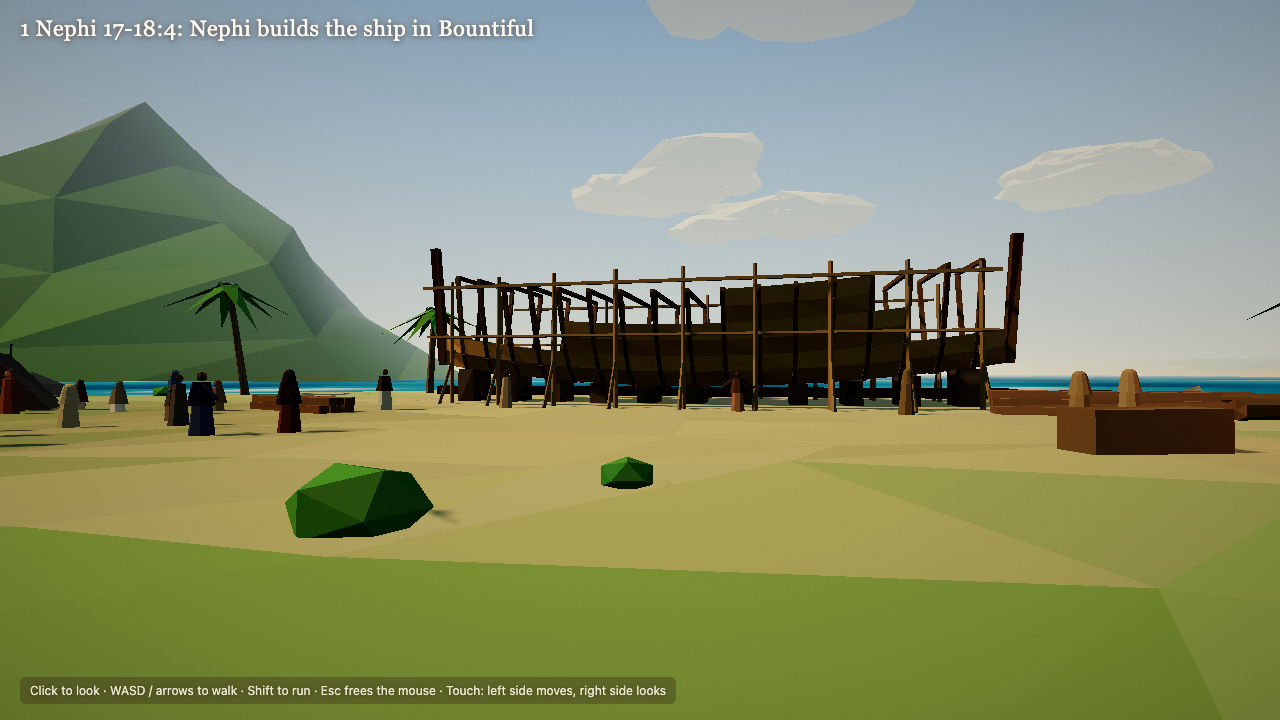
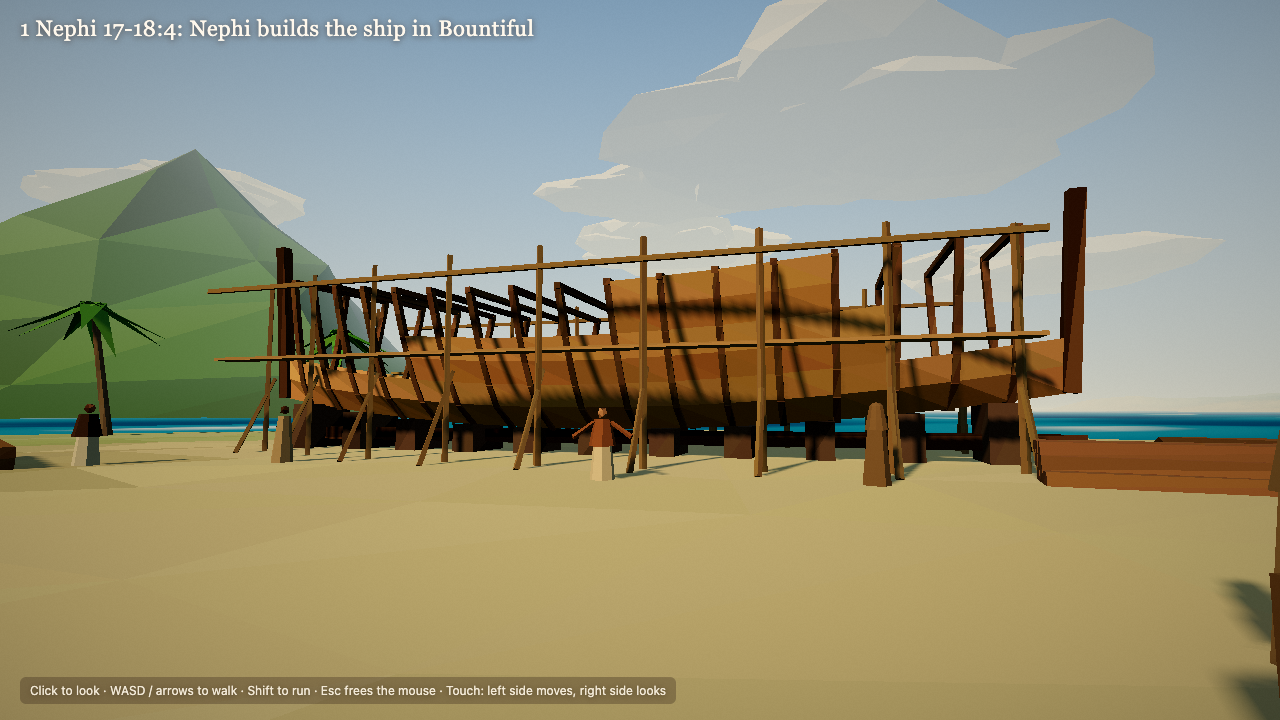
feat: polish lowpoly scenes bom-07 to bom-12

diff --git a/styles/lowpoly/scenes/lib/bom-07-sea.js b/styles/lowpoly/scenes/lib/bom-07-sea.js
@@ -1,7 +1,7 @@
 import * as THREE from 'three';
 
 // Faceted ocean whose waves are displaced on the GPU. Flat shading derives normals from the displaced surface.
-export function ocean(ctx, { level = 0, size = 1400, segments = 200, center = [0, 0], color = '#2f7d8f', deep = '#1b4b62', crest = '#d8eef0', amp = 0.3, freq = 0.06, speed = 0.8, chop = 0.5, opacity = 1 } = {}) {
+export function ocean(ctx, { level = 0, size = 1400, segments = 200, center = [0, 0], color = '#2f7d8f', deep = '#1b4b62', crest = '#d8eef0', amp = 0.3, freq = 0.06, speed = 0.8, chop = 0.5, opacity = 1, foam = 0, glow = 0 } = {}) {
   const { THREE: T, scene } = ctx;
   const geo = new T.PlaneGeometry(size, size, segments, segments).rotateX(-Math.PI / 2);
   const mat = new T.MeshLambertMaterial({ color: '#ffffff', flatShading: true, transparent: opacity < 1, opacity });
@@ -13,11 +13,13 @@ export function ocean(ctx, { level = 0, size = 1400, segments = 200, center = [0
     uShallow: { value: new T.Color(color) },
     uDeep: { value: new T.Color(deep) },
     uCrest: { value: new T.Color(crest) },
+    uFoam: { value: foam },
+    uGlow: { value: glow },
   };
   mat.onBeforeCompile = (shader) => {
     Object.assign(shader.uniforms, uniforms);
     shader.vertexShader = shader.vertexShader
-      .replace('#include <common>', '#include <common>\nuniform float uTime, uAmp, uFreq, uChop;\nvarying float vWave;')
+      .replace('#include <common>', '#include <common>\nuniform float uTime, uAmp, uFreq, uChop;\nvarying float vWave;\nvarying vec2 vWp;')
       .replace(
         '#include <begin_vertex>',
         `#include <begin_vertex>
@@ -28,17 +30,22 @@ export function ocean(ctx, { level = 0, size = 1400, segments = 200, center = [0
           + sin((wp.x + wp.z) * uFreq * 2.7 + t * 1.7) * 0.18 * uChop
           + sin((wp.x - wp.z) * uFreq * 4.1 - t * 2.3) * 0.1 * uChop;
         transformed.y += h * uAmp;
-        vWave = h;`,
+        vWave = h;
+        vWp = wp.xz;`,
       );
     shader.fragmentShader = shader.fragmentShader
-      .replace('#include <common>', '#include <common>\nuniform vec3 uShallow, uDeep, uCrest;\nvarying float vWave;')
+      .replace('#include <common>', '#include <common>\nuniform vec3 uShallow, uDeep, uCrest;\nuniform float uFoam, uGlow;\nvarying float vWave;\nvarying vec2 vWp;')
       .replace(
         '#include <color_fragment>',
         `#include <color_fragment>
         vec3 sea = mix(uDeep, uShallow, smoothstep(-0.8, 0.6, vWave));
         sea = mix(sea, uCrest, smoothstep(0.62, 0.95, vWave) * 0.75);
+        float speck = fract(sin(dot(floor(vWp * 0.7), vec2(12.9898, 78.233))) * 43758.5453);
+        float foamAmt = smoothstep(0.3, 0.75, vWave + speck * 0.4 - 0.15) * uFoam;
+        sea = mix(sea, vec3(0.92, 0.95, 0.97), foamAmt);
         diffuseColor.rgb = sea;`,
-      );
+      )
+      .replace('#include <emissivemap_fragment>', '#include <emissivemap_fragment>\n        totalEmissiveRadiance += (uCrest * 0.25 + uShallow * 0.35) * (foamAmt + smoothstep(0.0, 0.9, vWave) * 0.4) * uGlow;');
   };
   const mesh = new T.Mesh(geo, mat);
   mesh.position.set(center[0], level, center[1]);
@@ -125,7 +132,7 @@ export function rain(ctx, { count = 5000, box = 60, height = 30, speed = 26, sla
 }
 
 // Random lightning: a jagged bolt far off, a flash of the sky lights and fog.
-export function lightning(ctx, { every = [3, 8], distance = [160, 320], color = '#dfe8ff', fogFlash = '#7d86a0' } = {}) {
+export function lightning(ctx, { every = [3, 8], distance = [160, 320], color = '#dfe8ff', fogFlash = '#7d86a0', strike = 0 } = {}) {
   const { THREE: T, scene, rand } = ctx;
   const hemi = scene.children.find((o) => o.isHemisphereLight);
   const sun = scene.children.find((o) => o.isDirectionalLight);
@@ -134,6 +141,8 @@ export function lightning(ctx, { every = [3, 8], distance = [160, 320], color = 
   const mat = new T.MeshBasicMaterial({ color, toneMapped: false, fog: false, transparent: true, opacity: 0 });
   const bolt = new T.Group();
   scene.add(bolt);
+  const strikeLight = new T.DirectionalLight(color, 0);
+  scene.add(strikeLight, strikeLight.target);
   let next = rand.range(1, 3), flashStart = -10;
   const makeBolt = (x, z) => {
     bolt.clear();
@@ -157,6 +166,8 @@ export function lightning(ctx, { every = [3, 8], distance = [160, 320], color = 
     if (t > next) {
       const a = rand() * Math.PI * 2, d = rand.range(distance[0], distance[1]);
       makeBolt(camera.position.x + Math.cos(a) * d, camera.position.z + Math.sin(a) * d);
+      strikeLight.position.set(camera.position.x + Math.cos(a) * 60, 80, camera.position.z + Math.sin(a) * 60);
+      strikeLight.target.position.copy(camera.position);
       flashStart = t;
       next = t + rand.range(every[0], every[1]);
     }
@@ -164,6 +175,7 @@ export function lightning(ctx, { every = [3, 8], distance = [160, 320], color = 
     const f = k < 0.5 ? Math.max(0, 1 - k / 0.5) * (0.6 + 0.4 * Math.sin(k * 60)) : 0;
     mat.opacity = f > 0.05 ? Math.min(1, f * 1.5) : 0;
     bolt.visible = f > 0.05;
+    strikeLight.intensity = f * strike;
     if (hemi) hemi.intensity = baseHemi * (1 + f * 3);
     if (sun) sun.intensity = baseSun * (1 + f * 2);
     scene.fog.color.copy(baseFog).lerp(flashFog, f * 0.8);

diff --git a/styles/lowpoly/scenes/bom-08.js b/styles/lowpoly/scenes/bom-08.js
@@ -14,16 +14,16 @@ export default {
   fov: 64,
   exposure: 1.0,
 
-  sun: { direction: [0.3, 0.8, -0.4], color: '#a8b8d0', intensity: 1.8 },
-  light: { sky: '#8a9ab6', ground: '#3a4450', hemi: 2.0 },
-  sky: { top: '#141a24', horizon: '#3e4a5a', ground: '#232c38', sunColor: '#4a5668', glow: 0.2 },
-  fog: { color: '#3a4656', near: 25, far: 260 },
-  clouds: { count: 160, shadow: '#1c2028', lit: '#4e5868', rim: '#6a7484', distance: [180, 620], altitude: [80, 150], hole: 0 },
+  sun: { direction: [-0.35, 0.7, 0.6], color: '#b8c8e0', intensity: 2.2 },
+  light: { sky: '#9aaac6', ground: '#4a5460', hemi: 2.1 },
+  sky: { top: '#182030', horizon: '#56647a', ground: '#2a3440', sunColor: '#6a7890', glow: 0.3 },
+  fog: { color: '#465468', near: 40, far: 300 },
+  clouds: { count: 160, shadow: '#222834', lit: '#5e6a7c', rim: '#8a96aa', distance: [180, 620], altitude: [80, 150], hole: 0 },
   bloom: { strength: 0.6, radius: 0.5, threshold: 0.8 },
-  grade: { saturation: 0.8, contrast: 1.1, vignette: 0.55, shadowTint: '#1a2440', highlightTint: '#d8e4ff' },
+  grade: { saturation: 0.85, contrast: 1.12, vignette: 0.45, shadowTint: '#1a2440', highlightTint: '#d8e4ff' },
   shadow: { center: [0, 0], radius: 25 },
 
-  player: { start: [0.9, 12.5], yaw: 0.03, pitch: -0.02, eye: 1.65, speed: 3.2 },
+  player: { start: [0.2, 8.8], yaw: -0.1, pitch: -0.03, eye: 1.65, speed: 3.2 },
 
   terrain: {
     size: 1100,
@@ -37,9 +37,9 @@ export default {
 
   custom(ctx) {
     const { THREE, scene, rand } = ctx;
-    ocean(ctx, { level: 0, size: 900, segments: 220, color: '#2c4a5a', deep: '#0f2230', crest: '#c8d4dc', amp: 1.3, freq: 0.055, chop: 1.2, speed: 1.3 });
+    ocean(ctx, { level: 0, size: 900, segments: 220, color: '#4a7c90', deep: '#16303e', crest: '#e8f0f4', foam: 0.85, glow: 0.55, amp: 1.3, freq: 0.055, chop: 1.2, speed: 1.3 });
     rain(ctx, { count: 6000, box: 70, height: 34, speed: 30, slant: [9, 4], color: '#c0ccd8', opacity: 0.4 });
-    lightning(ctx, { every: [2.5, 6], distance: [140, 280], fogFlash: '#8c96b0' });
+    lightning(ctx, { every: [2.5, 6], distance: [140, 280], fogFlash: '#a0aac4', strike: 3.5 });
 
     const ship = new THREE.Group();
     ship.position.y = RIDE;
@@ -71,11 +71,11 @@ export default {
     lying(-2.1, 4.5, '#d8d0c0');
     lying(2.1, 4.5, '#8a6a7a');
     const my = deck(MAST_Z);
-    const nephi = createFigure({ x: 0, y: my, z: MAST_Z + 0.42, face: [0, 20], robe: '#9a6a44', mantle: '#6a4a30', skin: '#9b6a46', arms: 'down' });
+    const nephi = createFigure({ x: 0, y: my, z: MAST_Z + 0.42, face: [0, 20], robe: '#d0b48a', mantle: '#8a5636', skin: '#a87652', arms: 'down' });
     ship.add(nephi);
-    const rope = lit('#b8a070');
+    const rope = lit('#e8d4a0');
     for (const h of [0.45, 0.85, 1.25]) {
-      const ring = new THREE.Mesh(new THREE.TorusGeometry(0.42, 0.04, 4, 10), rope);
+      const ring = new THREE.Mesh(new THREE.TorusGeometry(0.42, 0.06, 4, 10), rope);
       ring.rotation.x = Math.PI / 2;
       ring.position.set(0, my + h, MAST_Z + 0.2);
       ship.add(ring);
@@ -85,10 +85,10 @@ export default {
     const lamp = new THREE.Mesh(new THREE.OctahedronGeometry(0.16, 0), new THREE.MeshBasicMaterial({ color: '#ffc070', toneMapped: false }));
     lamp.position.set(0, my + 2.6, MAST_Z + 0.45);
     ship.add(lamp);
-    const lampLight = new THREE.PointLight('#ffb060', 14, 16, 1.4);
-    lampLight.position.set(0, my + 2.5, MAST_Z + 0.9);
+    const lampLight = new THREE.PointLight('#ffb060', 9, 16, 1.4);
+    lampLight.position.set(0.4, my + 2.3, MAST_Z + 2.0);
     ship.add(lampLight);
-    ctx.onFrame((t) => (lampLight.intensity = 14 * (0.85 + 0.15 * Math.sin(t * 9) * Math.sin(t * 5.3))));
+    ctx.onFrame((t) => (lampLight.intensity = 9 * (0.85 + 0.15 * Math.sin(t * 9) * Math.sin(t * 5.3))));
     const stand = new THREE.Mesh(new THREE.BoxGeometry(0.6, 0.7, 0.6), lit('#5a3b26'));
     stand.position.set(1.4, my + 0.35, MAST_Z + 2.2);
     ship.add(stand);
@@ -111,9 +111,9 @@ export default {
     };
     const toLocal = (x, z) => deck(z);
     const people = placeCrowd([
-      { palette, count: 5, points: [[-1.1, MAST_Z + 1.6], [-1.6, MAST_Z + 2.3], [-0.6, MAST_Z + 2.5], [0.5, MAST_Z + 2.9], [-2.2, MAST_Z + 1.2]], face: [0, MAST_Z], children: 0.6, kneel: 0.8, seed: 81 },
+      { palette, count: 5, points: [[-1.1, MAST_Z + 1.6], [-1.6, MAST_Z + 2.3], [-0.6, MAST_Z + 2.5], [1.3, MAST_Z + 2.9], [-2.2, MAST_Z + 1.2]], face: [0, MAST_Z], children: 0.6, kneel: 0.8, seed: 81 },
       { palette, count: 3, points: [[2.3, MAST_Z - 1.6], [2.9, MAST_Z - 0.4], [-2.6, MAST_Z - 2.2]], face: [0, MAST_Z], children: 0, seed: 82 },
-      { palette, count: 8, points: [[-3, 2.6], [-1.0, 2.9], [2.9, 2.4], [1.0, 3.0], [-0.9, 6.6], [2.8, 6.8], [-1, -9], [1.2, -10.5]], face: [0, 4.5], children: 0.3, kneel: 0.5, seed: 83 },
+      { palette, count: 8, points: [[-3, 2.6], [-3.1, 3.6], [2.9, 2.4], [3.1, 3.4], [-3.0, 7.4], [2.8, 6.8], [-1, -9], [1.2, -10.5]], face: [0, 4.5], children: 0.3, kneel: 0.5, seed: 83 },
       { palette, count: 4, points: [[-2.4, -6], [2.2, -5.5], [-1.5, -12], [2.5, -13]], face: [0, -20], children: 0.2, seed: 84 },
     ], toLocal, toLocal);
     const time = { value: 0 };

diff --git a/styles/lowpoly/scenes/bom-11.js b/styles/lowpoly/scenes/bom-11.js
@@ -26,7 +26,7 @@ export default {
   grade: { saturation: 1.1, contrast: 1.06, vignette: 0.32, shadowTint: '#2a3450', highlightTint: '#fff0d0' },
   shadow: { center: [0, -25], radius: 70 },
 
-  player: { start: [5, 16], yaw: 0.08, pitch: 0.1, eye: 1.65, speed: 4.5 },
+  player: { start: [3.5, 13], yaw: 0.06, pitch: 0.06, eye: 1.65, speed: 4.5 },
 
   terrain: {
     size: 1100,
@@ -35,10 +35,12 @@ export default {
     hills: 44,
     bumps: 0.25,
     flats: [{ x: 0, z: -20, r: 120, falloff: 60, height: 0 }],
-    colors: { ground: '#8a8a58', groundAlt: '#7a7e4e', grass: '#6c7c44', high: '#76784e', rock: '#7a6e5c' },
+    colors: { ground: '#b89c6e', groundAlt: '#a88c62', grass: '#7e8a4c', high: '#8a845a', rock: '#8a7a64' },
     patches: [
-      { x: TEMPLE[0], z: TEMPLE[1], r: 50, color: '#b8a682', strength: 0.7, rough: 0.4 },
-      { x: 0, z: 20, r: 30, color: '#a8966e', strength: 0.5, rough: 0.5 },
+      { x: TEMPLE[0], z: TEMPLE[1], r: 50, color: '#cdb58c', strength: 0.7, rough: 0.4 },
+      { x: 0, z: 20, r: 30, color: '#b49468', strength: 0.5, rough: 0.5 },
+      { x: -40, z: -10, r: 35, color: '#a6825a', strength: 0.45, rough: 0.6 },
+      { x: 45, z: 5, r: 30, color: '#c0a47a', strength: 0.45, rough: 0.6 },
     ],
   },
 
@@ -103,6 +105,32 @@ export default {
     provisions(ctx, { x: -12, z: 6, count: 5 });
     campfire(ctx, { x: -30, z: 18, light: 5 });
 
+    const pad = (x, z, w, d, rot, color, lift = 0.06) => {
+      const c = Math.cos(rot), sn = Math.sin(rot);
+      let lo = Infinity, hi = -Infinity;
+      for (const [u, v] of [[0, 0], [-w / 2, -d / 2], [w / 2, -d / 2], [-w / 2, d / 2], [w / 2, d / 2]]) {
+        const h = heightAt(x + u * c + v * sn, z - u * sn + v * c);
+        lo = Math.min(lo, h);
+        hi = Math.max(hi, h);
+      }
+      const bottom = lo - 0.15, top = hi + lift;
+      ctx.solid.box(w, top - bottom, d, { position: [x, (top + bottom) / 2, z], rotation: [0, rot, 0], color, jitter: 0.04 });
+    };
+    const paving = ['#e4d4b0', '#c8b088', '#d8c29a', '#bea47c', '#d0b890'];
+    for (let ix = -7; ix <= 7; ix++) {
+      for (let iz = 0; iz <= 8; iz++) {
+        const x = ix * 2.6, z = -10.8 + iz * 2.6;
+        if (Math.abs(x) < 9 && z < -11) continue;
+        pad(x, z, 2.3, 2.3, rand.range(-0.03, 0.03), rand.pick(paving), 0.08);
+      }
+    }
+    for (let z = 12.6; z <= 44; z += 2.2) for (const x of [-1.15, 1.15]) pad(x + rand.range(-0.05, 0.05), z, 2.1, 1.95, rand.range(-0.03, 0.03), rand.pick(paving), 0.08);
+    for (const s of [-1, 1]) for (let z = 11.8; z <= 44; z += 1.1) pad(s * 2.6, z, 0.5, 1.0, 0, '#9a8462', 0.14);
+    const dirt = ['#9a7650', '#a07c56', '#94704a'];
+    for (const [x, z, w, d, r] of [[0, 2, 110, 3.2, 0], [0, -66, 110, 3.2, 0], [-42, -30, 3.2, 120, 0], [42, -30, 3.2, 120, 0], [-24, 25, 3, 50, 0.5], [24, 25, 3, 50, -0.5], [-70, -20, 3, 70, 0], [70, -20, 3, 70, 0]]) {
+      pad(x, z, w, d, r, rand.pick(dirt), 0.04);
+    }
+
     for (let gx = -7; gx <= 7; gx++) {
       for (let gz = -7; gz <= 6; gz++) {
         const x = gx * 15 + rand.range(-3, 3), z = gz * 15 - 15 + rand.range(-3, 3);
@@ -110,7 +138,9 @@ export default {
         if (Math.abs(x) < 22 && z > -10) continue;
         if (Math.hypot(x, z + 20) > 125 || rand() < 0.3) continue;
         const rot = Math.round(rand() * 4) * (Math.PI / 2) + rand.range(-0.08, 0.08);
-        house(ctx, { x, z, rot, w: rand.range(5, 9), d: rand.range(4.5, 7), h: rand.range(2.8, 4), color: rand.pick(['#c8b08a', '#d0bc98', '#bca480', '#c4ae8e']) });
+        const w = rand.range(5, 9), d = rand.range(4.5, 7);
+        pad(x, z, w + 4, d + 4, rot, rand.pick(['#c8ac80', '#bfa074', '#d0b68c', '#b89870']), 0.05);
+        house(ctx, { x, z, rot, w, d, h: rand.range(2.8, 4), color: rand.pick(['#d8c09a', '#e0ccaa', '#ccb490', '#d4be9e']), roof: rand.pick(['#7a5a3a', '#8a6440', '#6a4a30']) });
       }
     }
     field(ctx, { x: -150, z: 40, w: 40, d: 26, rot: 0.2, rows: 14 });

diff --git a/styles/lowpoly/scenes/bom-07.js b/styles/lowpoly/scenes/bom-07.js
@@ -15,7 +15,7 @@ export default {
   fov: 62,
   exposure: 1.05,
 
-  sun: { direction: [-0.55, 0.62, 0.25], color: '#fff0d0', intensity: 2.8 },
+  sun: { direction: [-0.25, 0.55, 0.8], color: '#fff0d0', intensity: 2.8 },
   light: { sky: '#a8c8e8', ground: '#6a7a48', hemi: 1.15 },
   sky: { top: '#4f86c6', horizon: '#d6e6ea', ground: '#c8d8d8', sunColor: '#fff4d8', glow: 0.8 },
   fog: { color: '#d2e2e6', near: 90, far: 620 },
@@ -24,7 +24,7 @@ export default {
   grade: { saturation: 1.12, contrast: 1.05, vignette: 0.32, shadowTint: '#2a3a50', highlightTint: '#fff2d8' },
   shadow: { center: [10, -5], radius: 60 },
 
-  player: { start: [4, 10], yaw: 0.22, pitch: 0.02, eye: 1.65, speed: 4.5 },
+  player: { start: [8, -1], yaw: 0.3, pitch: 0.08, eye: 1.65, speed: 4.5 },
 
   terrain: {
     size: 1100,
@@ -39,7 +39,7 @@ export default {
     colors: { ground: '#7a9446', groundAlt: '#5a7c3a', grass: '#567c38', high: '#6c7c4c', rock: '#7c7262' },
     patches: [
       { x: 0, z: -340, r: 362, color: '#dcc896', strength: 1, rough: 0.08 },
-      { x: SHIP[0], z: SHIP[1] + 4, r: 26, color: '#bfa878', strength: 0.7, rough: 0.4 },
+      { x: SHIP[0] + 4, z: SHIP[1] + 10, r: 34, color: '#d6be8a', strength: 0.85, rough: 0.4 },
       { x: CAMP[0], z: CAMP[1], r: 18, color: '#8a7a50', strength: 0.5, rough: 0.5 },
     ],
   },
@@ -72,7 +72,7 @@ export default {
   },
 
   figures: [
-    { x: 2.5, z: -15.6, face: [2.5, -20], robe: '#9a6a44', mantle: '#5a3d2b', skin: '#9b6a46', arms: 'out' },
+    { x: 3, z: -14.2, face: [8, -1], robe: '#d0b48a', mantle: '#8a5636', skin: '#a87652', arms: 'out' },
     { x: -9, z: -4, face: [0, -18], robe: '#6e3a2a', mantle: '#3f2a20', skin: '#8a5a3c', arms: 'down', hood: true },
     { x: -10.6, z: -2.8, face: [0, -18], robe: '#4f4a5b', mantle: '#2f2a3a', skin: '#9b6a46', arms: 'out' },
   ],
@@ -89,7 +89,7 @@ export default {
     const ground = heightAt(SHIP[0], SHIP[1]);
     const lift = 0.9;
     const L = 30;
-    const { mesh, shape } = buildShip({ length: L, beam: 8, depth: 4.6, built: 0.5, rand, hullColor: '#9c6c42', plankAlt: '#b0804e' });
+    const { mesh, shape } = buildShip({ length: L, beam: 8, depth: 4.6, built: 0.5, rand, hullColor: '#b07a4a', plankAlt: '#c48e5a' });
     mesh.position.set(SHIP[0], ground + lift, SHIP[1]);
     mesh.rotation.y = SHIP_ROT;
     scene.add(mesh);
@@ -146,7 +146,7 @@ export default {
       if (y > 70) c.lerp(new THREE.Color('#8a8070'), Math.min(1, (y - 70) / 30));
     } });
 
-    const avoid = (x, z) => Math.abs(z - SHIP[1]) < 12 && Math.abs(x) < 26 || Math.hypot(x - CAMP[0], z - CAMP[1]) < 22 || Math.hypot(x - 4, z - 10) < 4;
+    const avoid = (x, z) => Math.abs(z - SHIP[1]) < 12 && Math.abs(x) < 26 || Math.hypot(x - CAMP[0], z - CAMP[1]) < 22 || Math.hypot(x - 8, z + 1) < 10;
     for (let i = 0; i < 120; i++) {
       const x = rand.range(-90, 90), z = rand.range(-30, 90);
       if (avoid(x, z) || heightAt(x, z) < SEA + 0.4) continue;

diff --git a/styles/lowpoly/scenes/bom-09.js b/styles/lowpoly/scenes/bom-09.js
@@ -23,7 +23,7 @@ export default {
   grade: { saturation: 1.15, contrast: 1.05, vignette: 0.32, shadowTint: '#283a50', highlightTint: '#fff0d0' },
   shadow: { center: [0, -5], radius: 60 },
 
-  player: { start: [2, 22], yaw: 0.05, pitch: 0.0, eye: 1.65, speed: 4.5 },
+  player: { start: [5, -2], yaw: 0.1, pitch: 0.03, eye: 1.65, speed: 4.5 },
 
   terrain: {
     size: 1100,
@@ -35,7 +35,7 @@ export default {
       { x: 0, z: -340, r: 250, falloff: 70, height: -6 },
       { x: 0, z: 0, r: 40, falloff: 40, height: 0.2 },
     ],
-    colors: { ground: '#6a8c42', groundAlt: '#557a36', grass: '#4f7432', high: '#5e7444', rock: '#766c5e' },
+    colors: { ground: '#7e9c4a', groundAlt: '#6c8c40', grass: '#58803a', high: '#5e7444', rock: '#766c5e' },
     patches: [
       { x: 0, z: -340, r: 358, color: '#d8c8a0', strength: 1, rough: 0.08 },
       { x: -18, z: -12, r: 14, color: '#8a7a50', strength: 0.5, rough: 0.5 },
@@ -66,7 +66,7 @@ export default {
   },
 
   figures: [
-    { x: 8, z: 4, face: [12, 2], robe: '#9a6a44', mantle: '#5a3d2b', skin: '#9b6a46', arms: 'out' },
+    { x: 1.5, z: -14, face: [-4, -37], robe: '#d0b48a', mantle: '#8a5636', skin: '#a87652', arms: 'out' },
   ],
 
   custom(ctx) {
@@ -91,10 +91,10 @@ export default {
 
     const { mesh: boat } = buildShip({ mast: false, length: 6, beam: 2, depth: 0.9, built: 1, rand, hullColor: '#8a5e3a', plankAlt: '#9a6c44' });
     boat.position.set(BOAT[0], heightAt(...BOAT) + 0.15, BOAT[1]);
-    boat.rotation.set(0.04, 0.3, 0.12);
+    boat.rotation.set(0.04, 1.3, 0.12);
     scene.add(boat);
-    ctx.colliders.add({ x: BOAT[0], z: BOAT[1], w: 2, d: 6, rot: 0.3, bottom: heightAt(...BOAT), top: heightAt(...BOAT) + 1.2 });
-    for (const s of [-1, 1]) ctx.solid.box(0.1, 0.1, 3.4, { position: [BOAT[0] + s * 1.6, heightAt(...BOAT) + 0.2, BOAT[1] + 1], rotation: [0, 0.3 + s * 0.4, 0], color: '#6a4a30' });
+    ctx.colliders.add({ x: BOAT[0], z: BOAT[1], w: 2, d: 6, rot: 1.3, bottom: heightAt(...BOAT), top: heightAt(...BOAT) + 1.2 });
+    for (const s of [-1, 1]) ctx.solid.box(0.1, 0.1, 3.4, { position: [BOAT[0] + s * 1.6, heightAt(...BOAT) + 0.2, BOAT[1] + 1], rotation: [0, 1.3 + s * 0.4, 0], color: '#6a4a30' });
 
     provisions(ctx, { x: -6, z: -28, count: 10, radius: 3 });
     provisions(ctx, { x: -14, z: -18, count: 6, radius: 2 });

diff --git a/styles/lowpoly/scenes/bom-10.js b/styles/lowpoly/scenes/bom-10.js
@@ -27,7 +27,7 @@ export default {
   grade: { saturation: 1.12, contrast: 1.06, vignette: 0.38, shadowTint: '#30285e', highlightTint: '#ffe0b0' },
   shadow: { center: [0, -6], radius: 45 },
 
-  player: { start: [1.5, 6], yaw: 0.06, pitch: -0.02, eye: 1.65, speed: 4.2 },
+  player: { start: [0, 1.2], yaw: 0, pitch: 0.03, eye: 1.65, speed: 4.2 },
 
   terrain: {
     size: 1100,
@@ -36,8 +36,8 @@ export default {
     hills: 40,
     bumps: 0.3,
     flats: [{ x: 0, z: -6, r: 50, falloff: 40, height: 0.2 }],
-    colors: { ground: '#7e8a48', groundAlt: '#6c7c40', grass: '#5c7a38', high: '#76784e', rock: '#7a6e5c' },
-    patches: [{ x: LEHI[0], z: LEHI[1] + 4, r: 16, color: '#9a8458', strength: 0.6, rough: 0.5 }],
+    colors: { ground: '#9a9258', groundAlt: '#88884c', grass: '#6c843e', high: '#76784e', rock: '#7a6e5c' },
+    patches: [{ x: LEHI[0], z: LEHI[1] + 4, r: 18, color: '#b49a68', strength: 0.7, rough: 0.5 }],
   },
 
   objects: [
@@ -59,7 +59,7 @@ export default {
     },
     groups: [
       { count: 26, center: LEHI, ring: [3.4, 7.5], arc: [0.2, Math.PI - 0.2], spacing: 1.0, face: LEHI, children: 0.2, kneel: 0.35, seed: 101, avoid: [{ rect: [LEHI[0], LEHI[1] + 6, 2.4, 12] }, { rect: [LEHI[0], LEHI[1], 3.6, 3.6] }] },
-      { count: 30, center: LEHI, ring: [7.5, 12], arc: [0.05, Math.PI - 0.05], spacing: 1.15, face: LEHI, children: 0.35, kneel: 0.1, seed: 102, avoid: [{ rect: [LEHI[0], LEHI[1] + 6, 2.4, 12] }, { rect: [1.5, 6, 3, 3] }] },
+      { count: 30, center: LEHI, ring: [7.5, 12], arc: [0.05, Math.PI - 0.05], spacing: 1.15, face: LEHI, children: 0.35, kneel: 0.1, seed: 102, avoid: [{ rect: [LEHI[0], LEHI[1] + 6, 2.4, 12] }, { rect: [0, 1.5, 3, 4] }] },
       { count: 6, center: [-16, -2], ring: [1, 4], spacing: 1.2, face: LEHI, children: 0.6, seed: 103 },
     ],
   },

diff --git a/styles/lowpoly/scenes/bom-12.js b/styles/lowpoly/scenes/bom-12.js
@@ -4,7 +4,7 @@ import { solomonTemple, house } from './lib/bom-07-temple.js';
 
 const TEMPLE = [0, -40];
 const JACOB = [0, -24.2];
-const START = [-12, 0];
+const START = [-9, -6];
 
 export default {
   title: 'Jacob 2: Jacob teaches at the temple',
@@ -22,7 +22,7 @@ export default {
   grade: { saturation: 1.08, contrast: 1.07, vignette: 0.36, shadowTint: '#2a3050', highlightTint: '#ffeccc' },
   shadow: { center: [0, -25], radius: 60 },
 
-  player: { start: START, yaw: -0.44, pitch: 0.1, eye: 1.65, speed: 4.5 },
+  player: { start: START, yaw: -0.5, pitch: 0.2, eye: 1.65, speed: 4.5 },
 
   terrain: {
     size: 1100,
@@ -50,11 +50,11 @@ export default {
     groups: [
       {
         count: 40, center: [0, -14], ring: [0, 9], arc: [-Math.PI, Math.PI], spacing: 1.1, face: JACOB, children: 0.15, onStructures: true, seed: 121,
-        avoid: [{ rect: [0, -4, 7.5, 7.5] }, { rect: [0, -14.5, 3, 6] }, { rect: [0, -25.5, 30, 12] }, { rect: [-6, -12, 3.2, 30, -0.464] }],
+        avoid: [{ rect: [0, -4, 7.5, 7.5] }, { rect: [0, -14.5, 3, 6] }, { rect: [0, -25.5, 30, 12] }, { rect: [-4.5, -15, 3.4, 22, -0.5] }],
       },
       {
         count: 330, center: JACOB, ring: [13, 44], arc: [0.35, Math.PI - 0.35], spacing: 1.0, face: JACOB, children: 0.22, kneel: 0.08, seed: 122,
-        avoid: [{ rect: [0, -4, 9, 9] }, { rect: [14, -11, 10, 10] }, { rect: [-6, -12, 3.2, 30, -0.464] }, { rect: [0, 10, 200, 8] }, { rect: [33, 0, 4, 120] }, { rect: [-33, 0, 4, 120] }],
+        avoid: [{ rect: [0, -4, 9, 9] }, { rect: [14, -11, 10, 10] }, { rect: [-4.5, -15, 3.4, 22, -0.5] }, { rect: [0, 10, 200, 8] }, { rect: [33, 0, 4, 120] }, { rect: [-33, 0, 4, 120] }],
       },
     ],
   },
